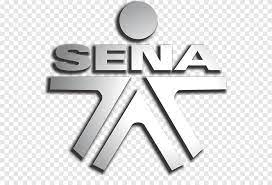
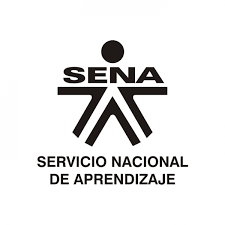
se implementan las card de bootstrap

diff --git a/Diplomas.html b/Diplomas.html
@@ -26,61 +26,68 @@
     <h1>Mis titulos obtenidos</h1>
 
     <div class="imagenen-logo-estudios">
-      <div class="card" style="width: 18rem; padding-left: 10%;">
+
+        <div class="card" style="width: 18rem; padding-left: 1%;">
+            <img src="./img/UDC.jpg" class="card-img-top" alt="..." />
+            <div class="card-body">
+              <h5 class="card-title">Universidad De Cartagena</h5>
+              <p class="card-text">
+                Ingeniería de Software - Universidad De Cartagena Febrero de 2022 -
+            Actualmente 
+          </p>
+              </p>
+              <a href="#" class="btn btn-primary">Go somewhere</a>
+            </div>
+          </div>
+
+
+        <div class="card" style="width: 18rem;">
+            <img src="./img/ENEB.jpg" class="card-img-top" alt="..." />
+            <div class="card-body">
+              <h5 class="card-title">Escuela De Negocios Europea De Barcelona</h5>
+              <p class="card-text">
+                MBA / Master Big Datta and Business Inteligence / 2018 - 2020  -
+              </p>
+              <a href="#" class="btn btn-primary">Go somewhere</a>
+            </div>
+          </div>
+
+
+      <div class="card" style="width: 18rem;">
         <img src="./img/unir.jpg" class="card-img-top" alt="..." />
         <div class="card-body">
           <h5 class="card-title">Universidad Internacional De La Rioja</h5>
           <p class="card-text">
-            Some quick example text to build on the card title and make up the
-            bulk of the card's content.
+            Especializacion en Ingenieria De Software - Mayo 2023 - Actualidad
           </p>
           <a href="#" class="btn btn-primary">Go somewhere</a>
         </div>
       </div>
 
-      <div class="card" style="width: 18rem; padding-left: 10%;">
+      <div class="card" style="width: 18rem; padding-left: 1%;">
         <img src="./img/utb.jpg" class="card-img-top" alt="..." />
         <div class="card-body">
-          <h5 class="card-title">Universidad Internacional De La Rioja</h5>
+          <h5 class="card-title">Universidad Tecnologica De Bolivar</h5>
           <p class="card-text">
-            Some quick example text to build on the card title and make up the
-            bulk of the card's content.
+            Ingeniero Mecatrónico e Ingeniero Mecanico - Universidad Tecnológica de
+      Bolívar Febrero de 2013 - Mayo de 2018
           </p>
           <a href="#" class="btn btn-primary">Go somewhere</a>
         </div>
       </div>
 
-      <div class="card" style="width: 18rem; padding-left: 10%;">
+      <div class="card" style="width: 12rem; padding-left: 2%;">
         <img src="./img/sena.jpg" class="card-img-top" alt="..." />
         <div class="card-body">
-          <h5 class="card-title">Universidad Internacional De La Rioja</h5>
+          <h5 class="card-title">SENA</h5>
           <p class="card-text">
-            Some quick example text to build on the card title and make up the
-            bulk of the card's content.
+            Técnico en Programación de Aplicaciones para Dispositivos Móviles - SENA
+            Octubre de 2021 - Actualmente
           </p>
           <a href="#" class="btn btn-primary">Go somewhere</a>
         </div>
       </div>
     </div>
-    <main>
-      <h2>Estudios y Formacion Academica</h2>
-
-      Especialización en Ingeniería de Software - Universidad Internacional De
-      La Rioja Mayo de 2023 - Actualmente <br />
-      <br />
-      Ingeniería de Software - Universidad De Cartagena Febrero de 2022 -
-      Actualmente <br />
-      <br />
-      Técnico en Programación de Aplicaciones para Dispositivos Móviles - SENA
-      Octubre de 2021 - Actualmente <br />
-      <br />
-      MBA / Máster en Big Data e Inteligencia de Negocios Escuela de Negocios de
-      Barcelona - ENEB Diciembre de 2018 - Febrero de 2021 <br />
-      <br />
-      Ingeniero Mecatrónico e Ingeniero Mecanico - Universidad Tecnológica de
-      Bolívar Febrero de 2013 - Mayo de 2018
-    </main>
-
     <footer>
       <ul class="pie-pagina">
         <li class="info-pie-pagina">

diff --git a/style.css b/style.css
@@ -102,9 +102,9 @@ a:visited {
 
 .imagenen-logo-estudios{
     display: flex;
-    justify-content: center;
-    align-items: center;
-    flex-wrap: wrap;
+  
+    
+   
 }
 
 
